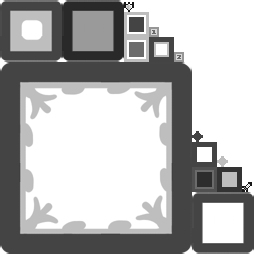
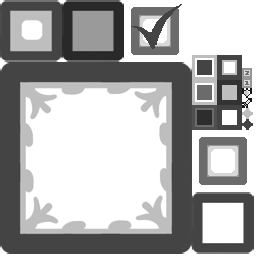
Added setting window

Changed region(s): [[0.75, 0.1875, 1.0, 0.75], [0.4688, 0.0, 0.7188, 0.25]]

diff --git a/core/src/com/mygdx/game/sceneguis/SettingWindow.java b/core/src/com/mygdx/game/sceneguis/SettingWindow.java
@@ -1,0 +1,66 @@
+package com.mygdx.game.sceneguis;
+
+import com.badlogic.gdx.Gdx;
+import com.badlogic.gdx.Preferences;
+import com.badlogic.gdx.scenes.scene2d.Actor;
+import com.badlogic.gdx.scenes.scene2d.InputEvent;
+import com.badlogic.gdx.scenes.scene2d.InputListener;
+import com.badlogic.gdx.scenes.scene2d.ui.*;
+import com.badlogic.gdx.scenes.scene2d.utils.ChangeListener;
+import com.badlogic.gdx.utils.Array;
+
+public class SettingWindow {
+  private Array<String> languages;
+  private Skin skin;
+  private static SettingWindow settingWindow;
+  private Preferences settings;
+  private final Table settingBoard;
+  private final TextButton exitButton;
+  private final Label languageSelectBoxLabel;
+  private SelectBox<String> languageSelectBox;
+  private SettingWindow(Skin skin) {
+    this.skin = skin;
+    languages = new Array<>(new String[]{"English", "Vietnamese"});
+    settings = Gdx.app.getPreferences("ChesspieSettings");
+    settingBoard = SceneGUI.createWindow(skin, false);
+    settingBoard.setSize(900, 600);
+    settingBoard.setPosition(
+        (float) Gdx.graphics.getWidth() / 2 - 450,
+        (float) Gdx.graphics.getHeight() / 2 - 300
+    );
+    exitButton = new TextButton("Save & Exit", skin);
+    exitButton.addListener(new InputListener() {
+      @Override
+      public boolean touchDown(InputEvent event, float x, float y, int pointer, int button) {
+        settingBoard.setVisible(false);
+        exitButton.setChecked(true);
+        return true;
+      }
+    });
+    languageSelectBoxLabel  = SceneGUI.createLabel(skin, "Language", 1f, false, false);
+    languageSelectBox = new SelectBox<>(skin);
+    languageSelectBox.setItems(languages);
+    languageSelectBox.addListener(new ChangeListener() {
+      @Override
+      public void changed(ChangeEvent event, Actor actor) {
+        System.out.println(languageSelectBox.getSelected());
+      }
+    });
+    settingBoard.add(languageSelectBoxLabel).expand();
+    settingBoard.add(languageSelectBox).expand();
+    settingBoard.row();
+    settingBoard.add(exitButton).expandX().colspan(2);
+    settingBoard.setZIndex(10);
+    settingBoard.setVisible(false);
+  }
+  public Table getSettingBoard() {
+    return settingBoard;
+  }
+  public static SettingWindow getInstance(Skin skin) {
+    if (settingWindow == null) {
+      settingWindow = new SettingWindow(skin);
+    }
+    return settingWindow;
+  }
+
+}

diff --git a/core/src/com/mygdx/game/sceneguis/TitleGUI.java b/core/src/com/mygdx/game/sceneguis/TitleGUI.java
@@ -14,13 +14,13 @@ public abstract class TitleGUI extends SceneGUI{
   private TextButton startButton;
   private TextButton settingButton;
   private TextButton quitButton;
-  private SettingTable settingsBoard;
+  private SettingWindow settingsBoard;
 
   private static final boolean DEBUG_MODE = true;
 
   public TitleGUI(Skin skin) {
     this.skin = skin;
-    settingsBoard = SettingTable.getInstance(skin);
+    settingsBoard = SettingWindow.getInstance(skin);
     loadTextures();
     createStartButton();
     createSettingButton();
@@ -54,6 +54,7 @@ public abstract class TitleGUI extends SceneGUI{
       @Override
       public boolean touchDown(InputEvent event, float x, float y, int pointer, int button) {
         handleSettingButton();
+        settingButton.setChecked(true);
         return true;
       }
     });
@@ -81,10 +82,17 @@ public abstract class TitleGUI extends SceneGUI{
     root.center().add(quitButton).size(300, 80);
     root.setDebug(DEBUG_MODE);
     root.setFillParent(true);
+    windows.add(settingsBoard.getSettingBoard());
   }
   public abstract void handleStartButton();
   public abstract void handleSettingButton();
   public abstract void handleQuitButton();
+  public void showSettingWindow() {
+    settingsBoard.getSettingBoard().setVisible(true);
+  }
+  public void hideSettingWindow() {
+    settingsBoard.getSettingBoard().setVisible(false);
+  }
   public void dispose() {
     bg.dispose();
     titleTexture.dispose();

diff --git a/core/src/com/mygdx/game/screens/TitleScreen.java b/core/src/com/mygdx/game/screens/TitleScreen.java
@@ -21,7 +21,7 @@ public class TitleScreen implements Screen {
 
       @Override
       public void handleSettingButton() {
-
+        gui.showSettingWindow();
       }
 
       @Override
